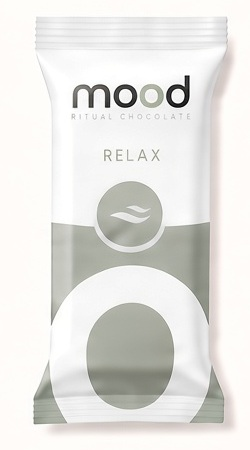
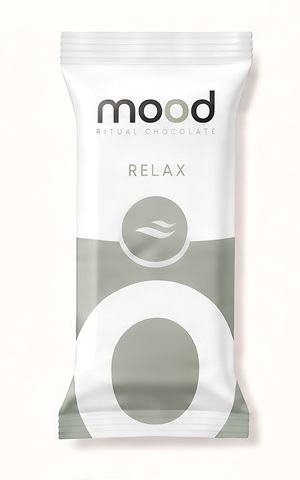
Wave 7g: 5 UX fixes
1. Hero H1 now dir=ltr so "Small Piece. Real Impact." renders
   correctly (period at end of sentence, not floating orphan on
   mobile due to RTL context).
2. Hero height reduced desktop 100vh → 82vh (min 520, max 760) so
   product cards peek below the fold.
3. Product pouch images re-cropped tighter (300×480) — no cut edges,
   no visible mockup card text bleeding in.
4. .pc-media background matched to pouch bg #fffbf8 — eliminates
   the "unexplained white rectangle" inside the cream cards.
5. Sticky mobile buy bar (.smb) removed from homepage — it's
   product-page-specific; showing "ENERGY · 3 חודשים · ₪420" on
   the home was confusing.
6. Moments carousel center tile: chocolate close-up replaced with
   mood-hero-three-moments.jpg (lifestyle group shot). Placeholder
   until real videos arrive.

Claude-Session: https://claude.ai/code/session_0194CGWSVD9fUNkFiwpNLXSP

diff --git a/mood-web/mayven.html b/mood-web/mayven.html
@@ -761,9 +761,9 @@ h2.in-view, .section-head.in-view, .founder.in-view, article.in-view {
 .hero {
   position: relative !important;
   width: 100% !important;
-  height: 100vh !important;
-  min-height: 560px !important;
-  max-height: 900px !important;
+  height: 82vh !important;
+  min-height: 520px !important;
+  max-height: 760px !important;
   overflow: hidden !important;
   background: #f5f0e8 !important;
 }
@@ -874,7 +874,7 @@ h2.in-view, .section-head.in-view, .founder.in-view, article.in-view {
 .products-w5 { background: var(--paper); }
 .pgrid.pgrid-w5 { display: grid !important; grid-template-columns: repeat(3, 1fr) !important; gap: 24px !important; max-width: 1200px; margin: 0 auto; padding: 0 24px; }
 .pc.pc-w5 { background: #fbf7f1 !important; border: none !important; border-top: 3px solid var(--c) !important; border-radius: 18px !important; padding: 20px 20px 28px !important; box-shadow: 0 8px 24px -12px rgba(41,25,10,.08) !important; display: flex !important; flex-direction: column !important; align-items: center !important; text-align: center !important; overflow: visible !important; }
-.pc.pc-w5 .pc-media { position: relative !important; width: 100% !important; aspect-ratio: 1/1 !important; margin-bottom: 18px !important; overflow: hidden !important; border-radius: 12px !important; background: transparent !important; height: auto !important; }
+.pc.pc-w5 .pc-media { position: relative !important; width: 100% !important; aspect-ratio: 1/1 !important; margin-bottom: 18px !important; overflow: hidden !important; border-radius: 12px !important; background: #fffbf8 !important; height: auto !important; }
 .pc.pc-w5 .pc-media img { position: absolute !important; inset: 0 !important; width: 100% !important; height: 100% !important; transition: opacity .4s cubic-bezier(.19,1,.22,1); display: block; }
 .pc.pc-w5 .pc-media .pc-pack { object-fit: contain; padding: 8px; opacity: 1; }
 .pc.pc-w5 .pc-media .pc-life { object-fit: cover; opacity: 0; }
@@ -994,7 +994,7 @@ section.faq.faq-w5 { background: var(--paper) !important; padding: 60px 24px !im
         <source src="home-assets/cx/hero-desktop.mp4" type="video/mp4">
       </video>
       <div class="hero-copy hero-center">
-        <h1 class="hero-h1-en">Small Piece. Real Impact.</h1>
+        <h1 class="hero-h1-en" dir="ltr" lang="en">Small Piece. Real Impact.</h1>
         <div class="hero-cta">
           <a class="pill pill-cta hero-slide" href="#formulas">Shop now</a>
         </div>
@@ -1080,7 +1080,7 @@ section.faq.faq-w5 { background: var(--paper) !important; padding: 60px 24px !im
         <div class="moments-strip" role="region" aria-label="Video moments">
           <button class="mom-tile" data-i="0" aria-label="רגע 1"><img height="356" width="200" decoding="async" src="home-assets/cx/mood-energy-lifestyle-new.jpg" alt="" loading="lazy"></button>
           <button class="mom-tile" data-i="1" aria-label="רגע 2"><img height="356" width="200" decoding="async" src="home-assets/cx/mood-energy-moment.jpg" alt="" loading="lazy"></button>
-          <button class="mom-tile mom-active" data-i="2" aria-label="רגע 3 (מוצג)"><img height="356" width="200" decoding="async" src="home-assets/cx/mood-chocolate-bite.jpg" alt="" loading="lazy"><span class="mom-play" aria-hidden="true">&#9654;</span></button>
+          <button class="mom-tile mom-active" data-i="2" aria-label="רגע 3 (מוצג)"><img height="356" width="200" decoding="async" src="home-assets/cx/mood-hero-three-moments.jpg" alt="" loading="lazy"><span class="mom-play" aria-hidden="true">&#9654;</span></button>
           <button class="mom-tile" data-i="3" aria-label="רגע 4"><img height="356" width="200" decoding="async" src="home-assets/cx/mood-relax-lifestyle-new.jpg" alt="" loading="lazy"></button>
           <button class="mom-tile" data-i="4" aria-label="רגע 5"><img height="356" width="200" decoding="async" src="home-assets/cx/mood-sleep-lifestyle-new.jpg" alt="" loading="lazy"></button>
         </div>
@@ -1223,10 +1223,6 @@ section.faq.faq-w5 { background: var(--paper) !important; padding: 60px 24px !im
   </div>
 </footer>
 
-  <div class="smb" role="complementary" aria-label="קנייה מהירה">
-    <div class="smb-info"><b>מארז ENERGY · 3 חודשים</b><small>90 ביסים · ₪4.66 ליחידה</small></div>
-    <a class="pill pill-cta" href="energy.html">הוסיפי · ₪420</a>
-  </div>
   <a class="fwapp" href="https://wa.me/972536375525" target="_blank" rel="noopener" aria-label="דברו איתנו בוואטסאפ">
     <svg viewBox="0 0 24 24" fill="currentColor"><path d="M17.5 14.4c-.3-.1-1.7-.8-1.9-.9-.3-.1-.5-.1-.7.1-.2.3-.8.9-.9 1.1-.2.2-.3.2-.6.1-1.7-.9-2.8-1.5-4-3.4-.3-.5.3-.5.9-1.6.1-.2 0-.4 0-.5s-.7-1.6-.9-2.2c-.2-.6-.5-.5-.7-.5h-.6c-.2 0-.5.1-.8.4-.3.3-1 1-1 2.4s1.1 2.8 1.2 3c.1.2 2 3.1 4.9 4.3 1.8.8 2.5.8 3.4.7.5-.1 1.7-.7 2-1.4.2-.7.2-1.2.2-1.4-.1-.1-.3-.2-.5-.2zM12 2C6.5 2 2 6.5 2 12c0 1.9.5 3.7 1.5 5.3L2 22l4.9-1.5c1.5.8 3.3 1.3 5.1 1.3 5.5 0 10-4.5 10-10S17.5 2 12 2z"/></svg>
   </a>
